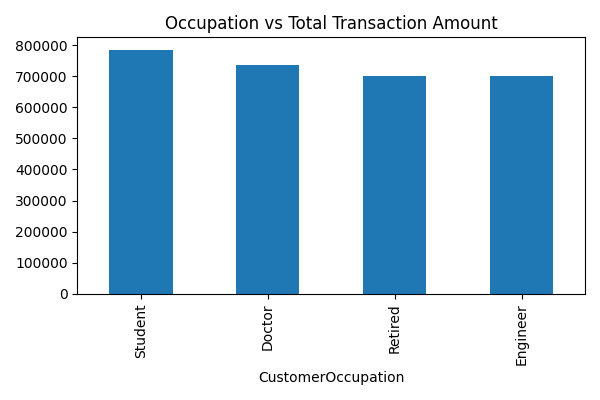
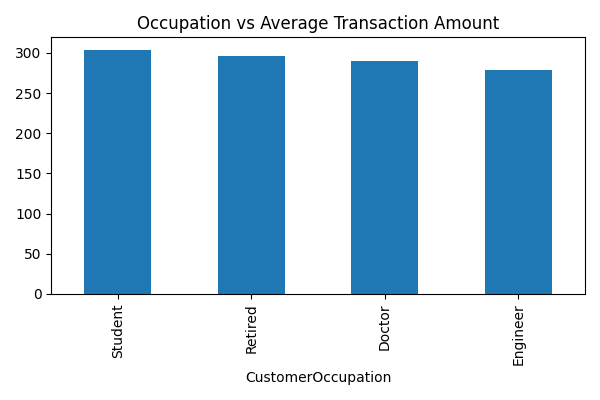
modified logic for fraud analysis

diff --git a/etl_pipeline.py b/etl_pipeline.py
@@ -60,6 +60,7 @@ df['AgeGroup']=pd.cut(df['CustomerAge'],bins=bins,labels=labels)
 #transaction flags to identify high transaction amounts
 threshold=df["TransactionAmount"].quantile(0.95)
 df["HighTransaction"]=(df["TransactionAmount"]>threshold).astype(int)
+print(" threshold for high transaction amount:",threshold)
 
 # categorize the amounts
 df["AmountCategory"]=pd.cut(df["TransactionAmount"],bins=[0,100,500,1000,5000],labels=["Low","Medium","High","Very High"])
@@ -68,32 +69,110 @@ df["AmountCategory"]=pd.cut(df["TransactionAmount"],bins=[0,100,500,1000,5000],l
 def get_time_period(hour):
     if pd.isna(hour):
         return "Unknown"
-    elif(hour<4):
+    elif(hour>=22 and hour<4):
         return "Late Night"
-    elif(hour<7):
+    elif(hour>=4 and hour<7):
         return "Early Morning"
-    elif(hour<12):
+    elif(hour>=7 and hour<12):
         return "Morning"
-    elif(hour<17):
+    elif(hour>=12 and hour<17):
         return "Afternoon"
     else:
         return "Evening"
 df["TimePeriod"]=df["hour"].apply(get_time_period)
 
-#detect unusual transactions based on amount and flag them
-mean=df["TransactionAmount"].mean()
-std=df["TransactionAmount"].std()
-upper_bound=mean+2*std
 
-df["UnusualTransaction"] = (
-    ((df["TransactionAmount"] > upper_bound) &
-     (df["LoginAttempts"] >= 4))
-    |
-    ((df["TransactionDuration"] > 280) & 
-     (df["TransactionAmount"] < mean))
-).astype(int)
+# FRAUD DETECTION FEATURE ENGINEERING
+# ------------------------------------------
+# 1. SORT CHRONOLOGICALLY (CRITICAL)
+# ------------------------------------------
+df["TransactionDate"]=pd.to_datetime(df["TransactionDate"])
+df = df.sort_values(["AccountID", "TransactionDate"])
 
-#unusual transactions count
+# ------------------------------------------
+# 2. HISTORY COUNTER
+# ------------------------------------------
+df["past_transaction_count"] = df.groupby("AccountID").cumcount()
+has_enough_history = df["past_transaction_count"] >= 3
+
+# ------------------------------------------
+# 3. LOGIN BEHAVIOR BASELINE
+# ------------------------------------------
+df["past_mean_login"] = (
+    df.groupby("AccountID")["LoginAttempts"]
+    .transform(lambda x: x.expanding().mean().shift(1))
+)
+
+df["past_mean_login"] = df["past_mean_login"].fillna(1.0)
+
+# ------------------------------------------
+# 4. IP BEHAVIOR (LOCAL + GLOBAL RISK)
+# ------------------------------------------
+df["ip_past_occurrences"] = df.groupby(["AccountID", "IP Address"]).cumcount()
+df["is_new_ip"] = (df["ip_past_occurrences"] == 0).astype(int)
+
+# ------------------------------------------
+# 5. TRANSACTION AMOUNT BASELINE (STABLE)
+# ------------------------------------------
+df["past_mean_amt"] = (
+    df.groupby("AccountID")["TransactionAmount"]
+    .transform(lambda x: x.expanding().mean().shift(1))
+)
+
+df["past_std_amt"] = (
+    df.groupby("AccountID")["TransactionAmount"]
+    .transform(lambda x: x.expanding().std().shift(1))
+)
+
+# GLOBAL FALLBACK (SAFE FOR COLD START)
+global_mean = df["TransactionAmount"].mean()
+global_std = df["TransactionAmount"].std()
+
+df["past_mean_amt"] = df["past_mean_amt"].fillna(global_mean)
+df["past_std_amt"] = df["past_std_amt"].fillna(global_std)
+
+df["amt_upper_bound"] = df["past_mean_amt"] + (2 * df["past_std_amt"])
+
+# ------------------------------------------
+# 6. DERIVED FEATURES
+# ------------------------------------------
+login_spike = df["LoginAttempts"] > (df["past_mean_login"] + 2)
+amount_anomaly = df["TransactionAmount"] > df["amt_upper_bound"]
+print("upper bound for transaction amount:",df["amt_upper_bound"])
+
+# ------------------------------------------
+# 7. FRAUD RULES
+# ------------------------------------------
+
+# Strong amount anomaly (low history-safe)
+cond1 = amount_anomaly & (df["LoginAttempts"] > 4)
+
+# Behavioral anomaly (only when history is reliable)
+cond2 = login_spike & amount_anomaly & has_enough_history
+
+# Behavioral + contextual IP risk
+cond3 = login_spike & df["is_new_ip"] & has_enough_history
+
+# ------------------------------------------
+# 8. FINAL LABEL
+# ------------------------------------------
+df["UnusualTransaction"] = (cond1 | cond2 | cond3).astype(int)
+
+# ------------------------------------------
+# 9. CLEANUP
+# ------------------------------------------
+df = df.drop(columns=[
+    "past_transaction_count",
+    "past_mean_login",
+    "ip_past_occurrences",
+    "is_new_ip",
+    "past_mean_amt",
+    "past_std_amt",
+    "amt_upper_bound"
+])
+
+# unusual transactions count
+print("\nUNUSUAL TRANSACTIONS COUNT:")
 print(df["UnusualTransaction"].value_counts())
 
 
@@ -108,13 +187,5 @@ print(df.isnull().sum())
 print("\nDATA TYPES:")
 print(df.dtypes)
 
-df.to_csv("data/processed/cleaned_transactions.csv",index=False)
-print("succesfully saved cleaned dataset to data/processed/cleaned_transactions.csv")
-
-
-
-
-
-
-
-
+#df.to_csv("data/processed/cleaned_transactions.csv",index=False)
+#print("succesfully saved cleaned dataset to data/processed/cleaned_transactions.csv")

diff --git a/analytics.py b/analytics.py
@@ -209,7 +209,7 @@ plt.close()
 high_transactions=(
     df[df["HighTransaction"]==1]
     .groupby("AccountID")["TransactionAmount"]
-    .sum()
+    .mean()
     .sort_values(ascending=False)
     .head(5)
 )
@@ -219,18 +219,18 @@ high_transactions.plot(kind='bar')
 
 plt.title("Top Accounts with High Value Transactions")
 plt.xlabel("Account ID")
-plt.ylabel("Total High Transaction Amount")
+plt.ylabel("Average High Transaction Amount")
 
 plt.savefig("outputs/charts/high_transaction_accounts.png")
 plt.close()
 
 # 15 a. Occupation Analysis
 
-occ = df.groupby("CustomerOccupation")["TransactionAmount"].sum().sort_values(ascending=False)
+occ = df.groupby("CustomerOccupation")["TransactionAmount"].mean().sort_values(ascending=False)
 
 plt.figure(figsize=(6,4))
 occ.plot(kind="bar")
-plt.title("Occupation vs Total Transaction Amount")
+plt.title("Occupation vs Average Transaction Amount")
 plt.tight_layout()
 plt.savefig("outputs/charts/occupation.png")
 plt.close()
